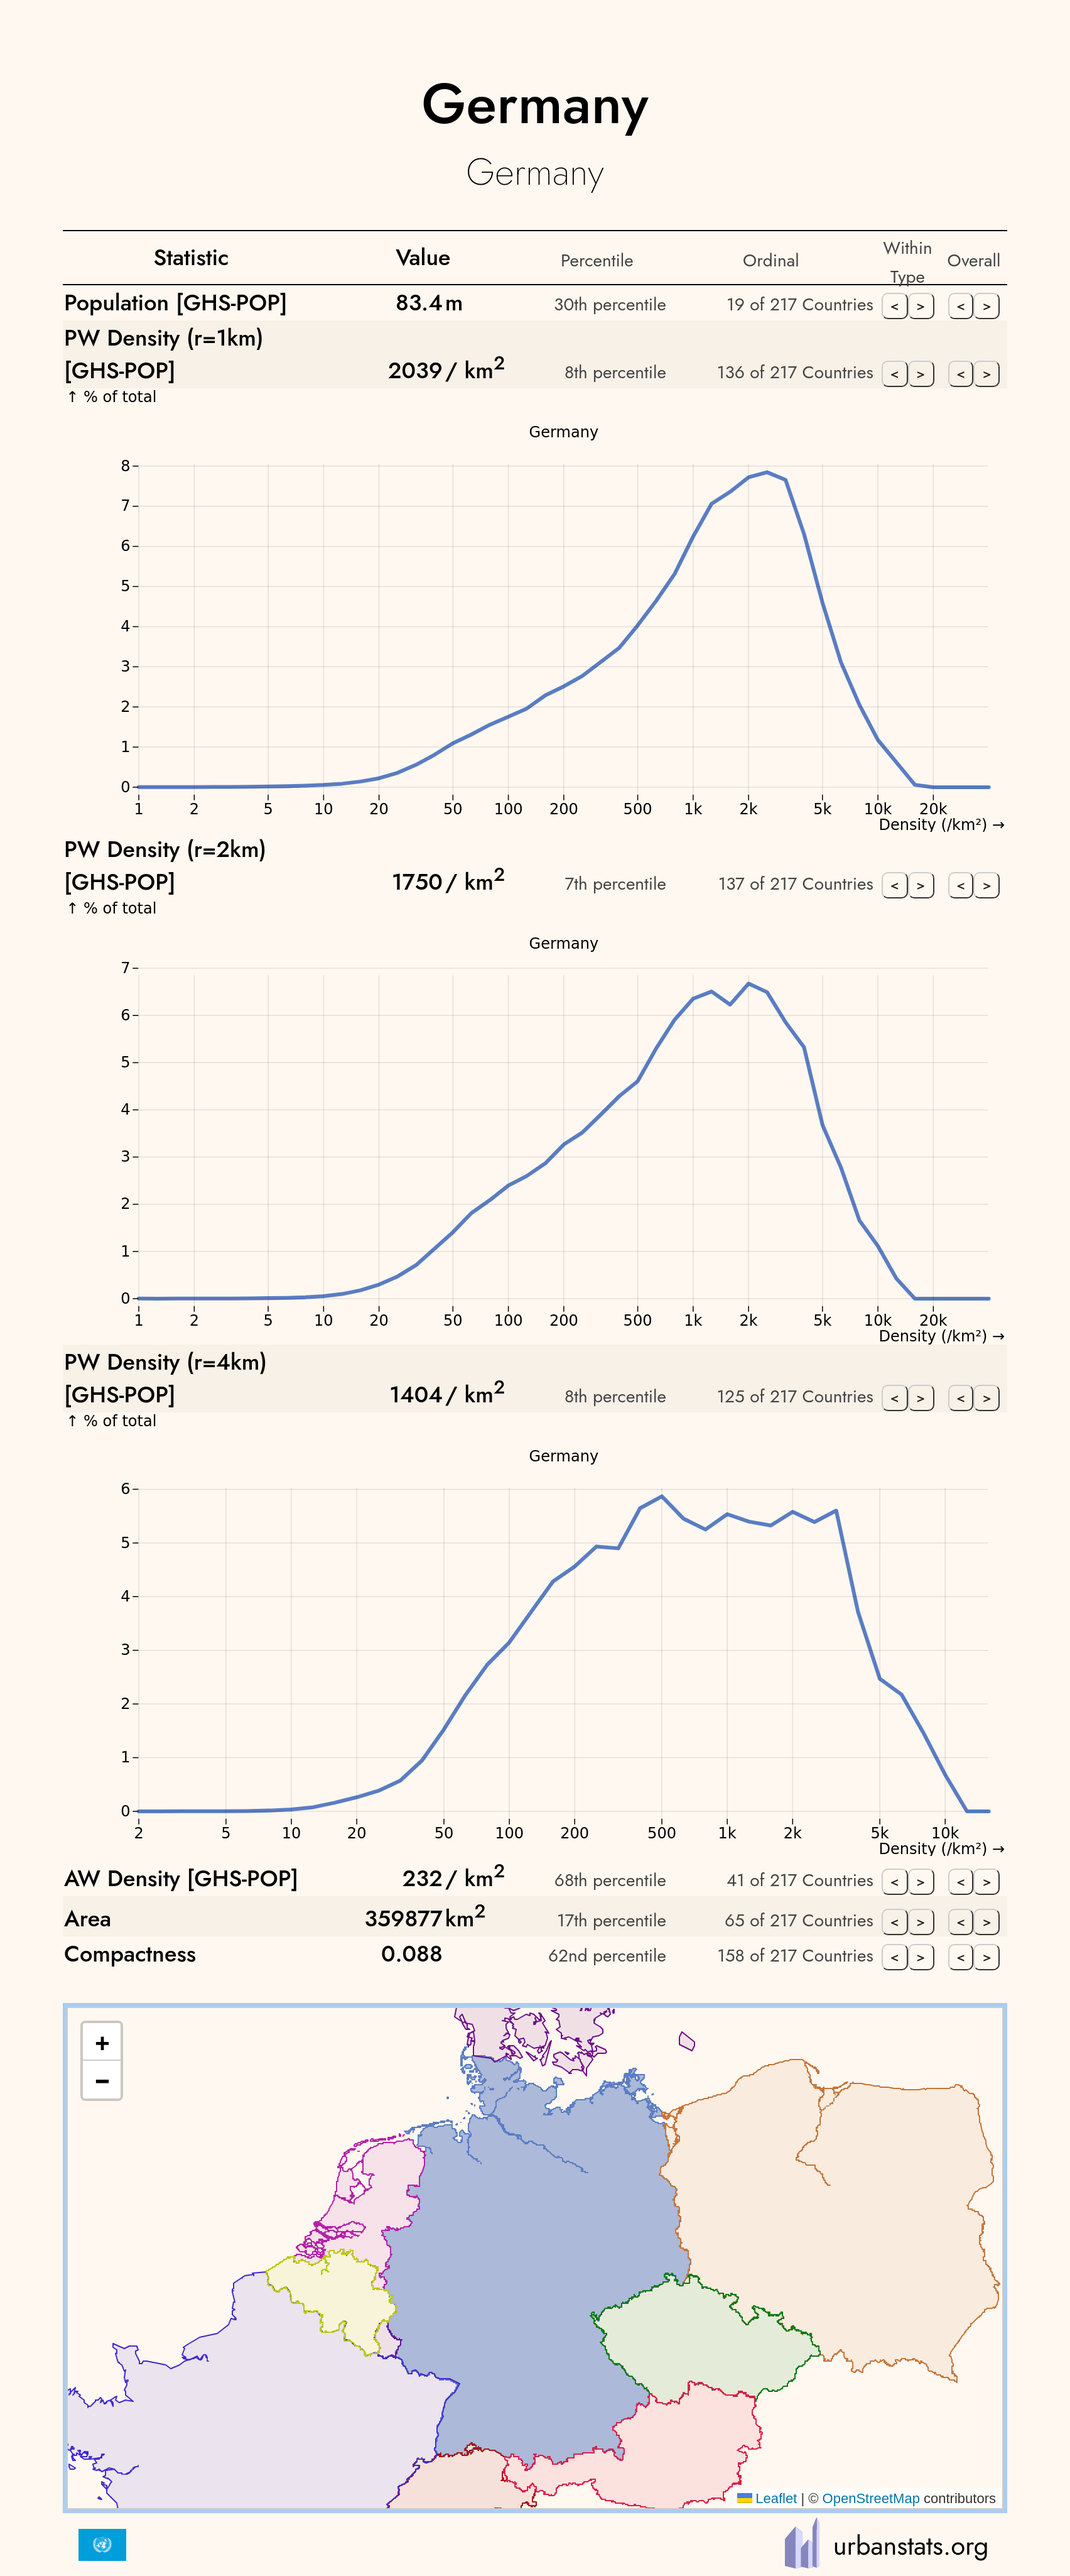
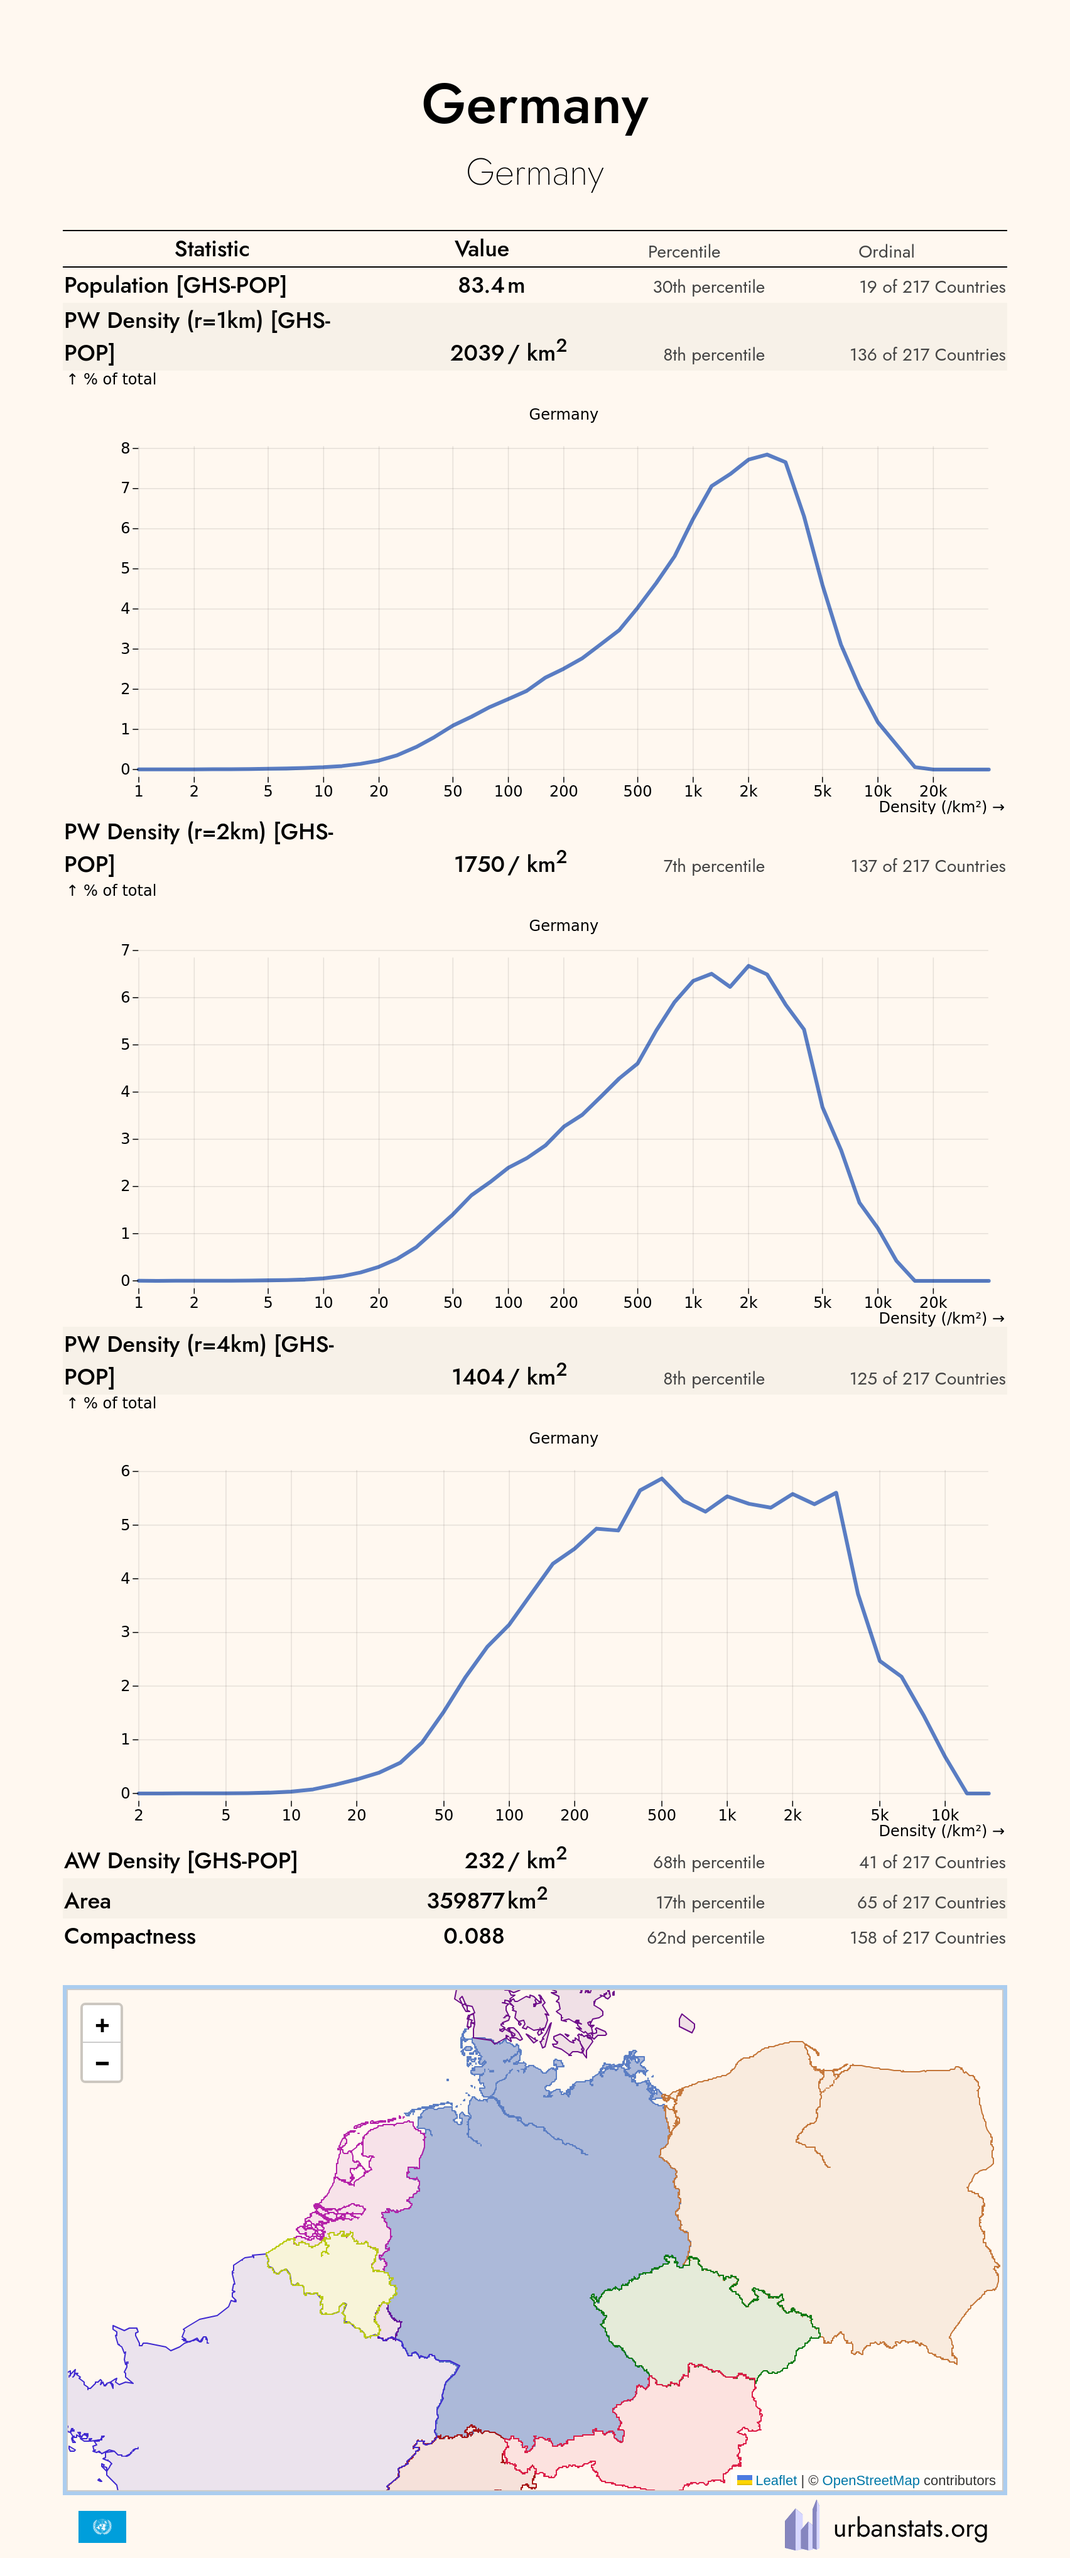
Hide pointer buttons in screenshots (#315 2/2) (#397)
Before 

![Delran township CCD , Burlington County, New Jersey,
USA](https://github.com/user-attachments/assets/a40b9340-35a0-4eb8-beb7-f536ae8d6617)

After

![Delran township CCD , Burlington County, New Jersey, USA
(2)](https://github.com/user-attachments/assets/673bbdbb-ff84-4387-835d-d8a1b42c27ab)

---------

diff --git a/react/src/components/table.tsx b/react/src/components/table.tsx
@@ -105,6 +105,8 @@ export function StatisticRowRawCellContents(props: StatisticRowRawProps & {
         value_columns = [value_columns[0]]
     }
 
+    const screenshotMode = useScreenshotMode()
+
     const cells: [number, string, React.ReactNode][] = [
         [31,
             'statname',
@@ -165,36 +167,40 @@ export function StatisticRowRawCellContents(props: StatisticRowRawProps & {
                 }
             </span>,
         ],
-        [8,
-            'pointer_in_class',
-            props.is_header
-                ? <span className="serif" style={ordinal_style}>Within Type</span>
-                : (
-                        <span className="serif" style={{ display: 'flex', ...ordinal_style }}>
-                            <PointerButtonsIndex
-                                ordinal={props.ordinal}
-                                statpath={props.statpath}
-                                type={props.article_type}
-                                total={props.total_count_in_class}
-                            />
-                        </span>
-                    ),
-        ],
-        [8,
-            'pointer_overall',
-            props.is_header
-                ? <span className="serif" style={ordinal_style}>Overall</span>
-                : (
-                        <span className="serif" style={{ display: 'flex', ...ordinal_style }}>
-                            <PointerButtonsIndex
-                                ordinal={props.overallOrdinal}
-                                statpath={props.statpath}
-                                type="overall"
-                                total={props.total_count_overall}
-                            />
-                        </span>
-                    ),
-        ],
+        ...(screenshotMode
+            ? []
+            : [
+                [8,
+                    'pointer_in_class',
+                    props.is_header
+                        ? <span className="serif" style={ordinal_style}>Within Type</span>
+                        : (
+                                <span className="serif" style={{ display: 'flex', ...ordinal_style }}>
+                                    <PointerButtonsIndex
+                                        ordinal={props.ordinal}
+                                        statpath={props.statpath}
+                                        type={props.article_type}
+                                        total={props.total_count_in_class}
+                                    />
+                                </span>
+                            ),
+                ],
+                [8,
+                    'pointer_overall',
+                    props.is_header
+                        ? <span className="serif" style={ordinal_style}>Overall</span>
+                        : (
+                                <span className="serif" style={{ display: 'flex', ...ordinal_style }}>
+                                    <PointerButtonsIndex
+                                        ordinal={props.overallOrdinal}
+                                        statpath={props.statpath}
+                                        type="overall"
+                                        total={props.total_count_overall}
+                                    />
+                                </span>
+                            ),
+                ],
+            ] satisfies [number, string, ReactNode][]),
     ]
     const cell_percentages: number[] = []
     const cell_contents = []
